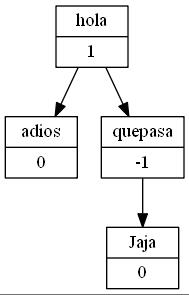
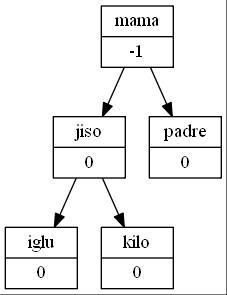
Arbol AVL

diff --git a/Arbo.py b/Arbo.py
@@ -9,6 +9,10 @@ class Nodo:
 
 class Arbol():
 
+    aumentar=False
+    NodoColocar=None
+    Noaumentar=False
+
     def __init__(self):
         self.padre=None   
 
@@ -16,6 +20,8 @@ class Arbol():
         return self.padre!=None
 
     def insertarPadre(self,dato):
+        global aumentar
+        global NodoColocar
         if self.padre==None:
             self.padre=Nodo(dato)
         else: 
@@ -24,8 +30,44 @@ class Arbol():
                     self.padre.izquierda=Nodo(dato)
                     self.padre.equilibrio-=1
                 else:
-                    if self.insertar(dato,self.padre.izquierda):
+                    self.insertar(dato,self.padre.izquierda)
+                    if aumentar:
                         self.padre.equilibrio-=1
+                        if self.padre.equilibrio<-1 and self.padre.izquierda.equilibrio<1:
+                            print("EqSimpleIzq")
+                            temp=self.padre.izquierda
+                            temp.equilibrio=0
+                            self.padre.equilibrio=0
+                            self.padre.izquierda=temp.derecha
+                            temp.derecha=self.padre
+                            self.padre=temp
+                            aumentar=False
+
+                        elif self.padre.equilibrio<-1:
+                            print("EqDobleIzq")
+                            temp1=self.padre.izquierda
+                            temp2=self.padre.izquierda.derecha
+                            n=temp2.equilibrio
+
+                            temp1.derecha=temp2.izquierda
+                            temp2.izquierda=temp1
+                            self.padre.izquierda=temp2.derecha
+                            temp2.derecha=self.padre
+                            self.padre=temp2
+                            if n>0:
+                                self.padre.equilibrio=1
+                            elif n<0:
+                                self.padre.equilibrio=-1
+                            else:
+                                self.padre.equilibrio=0
+                            pass
+                            self.padre.derecha.equilibrio=0
+                            self.padre.izquierda.equilibrio=0
+                            aumentar=False
+                        pass
+                    elif NodoColocar!=None:
+                        self.padre.izquierda=NodoColocar
+                        NodoColocar=None
                     pass
                 pass
             else:
@@ -33,44 +75,155 @@ class Arbol():
                     self.padre.derecha=Nodo(dato)
                     self.padre.equilibrio+=1
                 else:
-                    if self.insertar(dato,self.padre.derecha):
+                    self.insertar(dato,self.padre.derecha)
+                    if aumentar:
                         self.padre.equilibrio+=1
+                        if self.padre.equilibrio>1 and self.padre.derecha.equilibrio>-1:
+                            temp=self.padre.derecha
+                            temp.equilibrio=0
+                            self.padre.equilibrio=0
+                            self.padre.derecha=temp.izquierda
+                            temp.izquierda=self.padre
+                            self.padre=temp
+                            aumentar=False
+
+                        elif self.padre.equilibrio>1:
+                            temp1=self.padre.derecha
+                            temp2=self.padre.derecha.izquierda
+                            n=temp2.equilibrio
+
+                            temp1.izquierda=temp2.derecha
+                            temp2.derecha=temp1
+                            self.padre.derecha=temp2.izquierda
+                            temp2.izquierda=self.padre
+                            self.padre=temp2
+
+                            if n>0:
+                                self.padre.equilibrio=1
+                            elif n<0:
+                                self.padre.equilibrio=-1
+                            else:
+                                self.padre.equilibrio=0
+                            pass
+                            self.padre.derecha.equilibrio=0
+                            self.padre.izquierda.equilibrio=0
+                            aumentar=False
+                        pass
+                    elif NodoColocar!=None:
+                        self.padre.izquierda=NodoColocar
+                        NodoColocar=None
                     pass
                 pass
             pass
         pass
-
+        aumentar=False
 
     def insertar(self,dato,nodoA):
+        global aumentar
+        global NodoColocar
         if self.comparar(nodoA.dato) > self.comparar(dato):
             if nodoA.izquierda==None:
                 nodoA.izquierda=Nodo(dato)
                 nodoA.equilibrio-=1
                 if nodoA.derecha==None:
-                    return True
+                    aumentar=True
+                else:
+                    NodoColocar=None
                 pass
-                return False
             else:
-                if insertar(dato,nodoA.izquierda):
+                self.insertar(dato,nodoA.izquierda)
+                if aumentar:
                     nodoA.equilibrio-=1
-                    return True
+                    if nodoA.equilibrio<-1 and nodoA.izquierda.equilibrio<1:
+                        print("EqSimpleIzq2")
+                        temp=nodoA.izquierda
+                        temp.equilibrio=0
+                        nodoA.equilibrio=0
+
+                        nodoA.izquierda=temp.derecha
+                        temp.derecha=nodoA
+                        nodoA=temp
+                        NodoColocar=nodoA
+                        aumentar=False
+
+                    elif nodoA.equilibrio<-1:
+                        print("EqDobleIzq2")
+                        temp1=nodoA.izquierda
+                        temp2=nodoA.izquierda.derecha
+                        n=temp2.equilibrio
+
+                        temp1.derecha=temp2.izquierda
+                        temp2.izquierda=temp1
+                        nodoA.izquierda=temp2.derecha
+                        temp2.derecha=nodoA
+                        nodoA=temp2
+                        NodoColocar=nodoA
+                        if n>0:
+                            nodoA.equilibrio=1
+                        elif n<0:
+                            nodoA.equilibrio=-1
+                        else:
+                            nodoA.equilibrio=0
+                        pass
+                        nodoA.derecha.equilibrio=0
+                        nodoA.izquierda.equilibrio=0
+                        aumentar=False
+                    pass
+                elif NodoColocar!=None:
+                    nodoA.izquierda=NodoColocar
+                    NodoColocar=None
                 pass
-                return False
             pass
         else:
             if nodoA.derecha==None:
                 nodoA.derecha=Nodo(dato)
                 nodoA.equilibrio+=1
                 if nodoA.izquierda==None:
-                    return True
+                    aumentar=True
+                else:
+                    NodoColocar=None
                 pass
-                return False
             else: 
-                if insertar(dato,nodoA.derecha):
-                    nodoA.equilibrio-=1
-                    return True
+                self.insertar(dato,nodoA.derecha)
+                if aumentar:
+                    nodoA.equilibrio+=1
+                    if nodoA.equilibrio>1 and nodoA.derecha.equilibrio>-1:
+                        temp=nodoA.derecha
+                        temp.equilibrio=0
+                        nodoA.equilibrio=0
+                        nodoA.derecha=temp.izquierda
+                        temp.izquierda=nodoA
+                        nodoA=temp
+                        NodoColocar=nodoA
+                        aumentar=False
+
+                    elif nodoA.equilibrio>1:
+                        temp1=nodoA.derecha
+                        temp2=nodoA.derecha.izquierda
+                        n=temp2.equilibrio
+
+                        temp1.izquierda=temp2.derecha
+                        temp2.derecha=temp1
+                        nodoA.derecha=temp2.izquierda
+                        temp2.izquierda=nodoA
+                        nodoA=temp2
+
+                        if n>0:
+                            nodoA.equilibrio=1
+                        elif n<0:
+                            nodoA.equilibrio=-1
+                        else:
+                            nodoA.equilibrio=0
+                        pass
+                        nodoA.derecha.equilibrio=0
+                        nodoA.izquierda.equilibrio=0
+                        NodoColocar=nodoA
+                        aumentar=False
+                    pass
+                elif NodoColocar!=None:
+                    nodoA.izquierda=NodoColocar
+                    NodoColocar=None
                 pass
-                return False
             pass
         pass
 
@@ -116,6 +269,29 @@ class Arbol():
         }
         return switcher.get(letra,0)
 
+    def EqSimpleIzq(self,Nodo1,Nodo2):
+        Nodo1.izquierda=Nodo2.derecha
+        Nodo2.derecha=Nodo1
+        Nodo1=Nodo2
+
+    def EqSimpleDer(self,Nodo1,Nodo2):
+        Nodo1.derecha=Nodo2.izquierda
+        Nodo2.izquierda=Nodo1
+        Nodo1=Nodo2
+
+    def EqDobleIzq(self,Nodo1,Nodo2,Nodo3):
+        Nodo2.derecha=Nodo3.izquierda
+        Nodo3.izquierda=Nodo2
+        Nodo1.izquierda=Nodo3.derecha
+        Nodo3.derecha=Nodo1
+        Nodo1=Nodo3
+
+    def EqDobleDer(self,Nodo1,Nodo2,Nodo3):
+        Nodo2.izquierda=Nodo3.derecha
+        Nodo3.derecha=Nodo2
+        Nodo1.derecha=Nodo3.izquierda
+        Nodo3.izquierda=Nodo1
+        Nodo1=Nodo3
 
     def graficar1(self,nodo,f):
         if nodo.izquierda!=None:
@@ -158,3 +334,4 @@ class Arbol():
         f.write("}")
         f.close()
         os.system("dot -Tjpg arbol.dot -o imagena.jpg")
+        os.system("imagena.jpg")

diff --git a/main.py b/main.py
@@ -4,9 +4,9 @@ arbol=Arbo.Arbol()
 
 
 print("funciona")
-arbol.insertarPadre("hola")
-arbol.insertarPadre("adios")
-arbol.insertarPadre("quepasa")
-arbol.insertarPadre("Jaja")
-
+arbol.insertarPadre("mama")
+arbol.insertarPadre("jiso")
+arbol.insertarPadre("padre")
+arbol.insertarPadre("iglu")
+arbol.insertarPadre("kilo")
 arbol.graficar()
